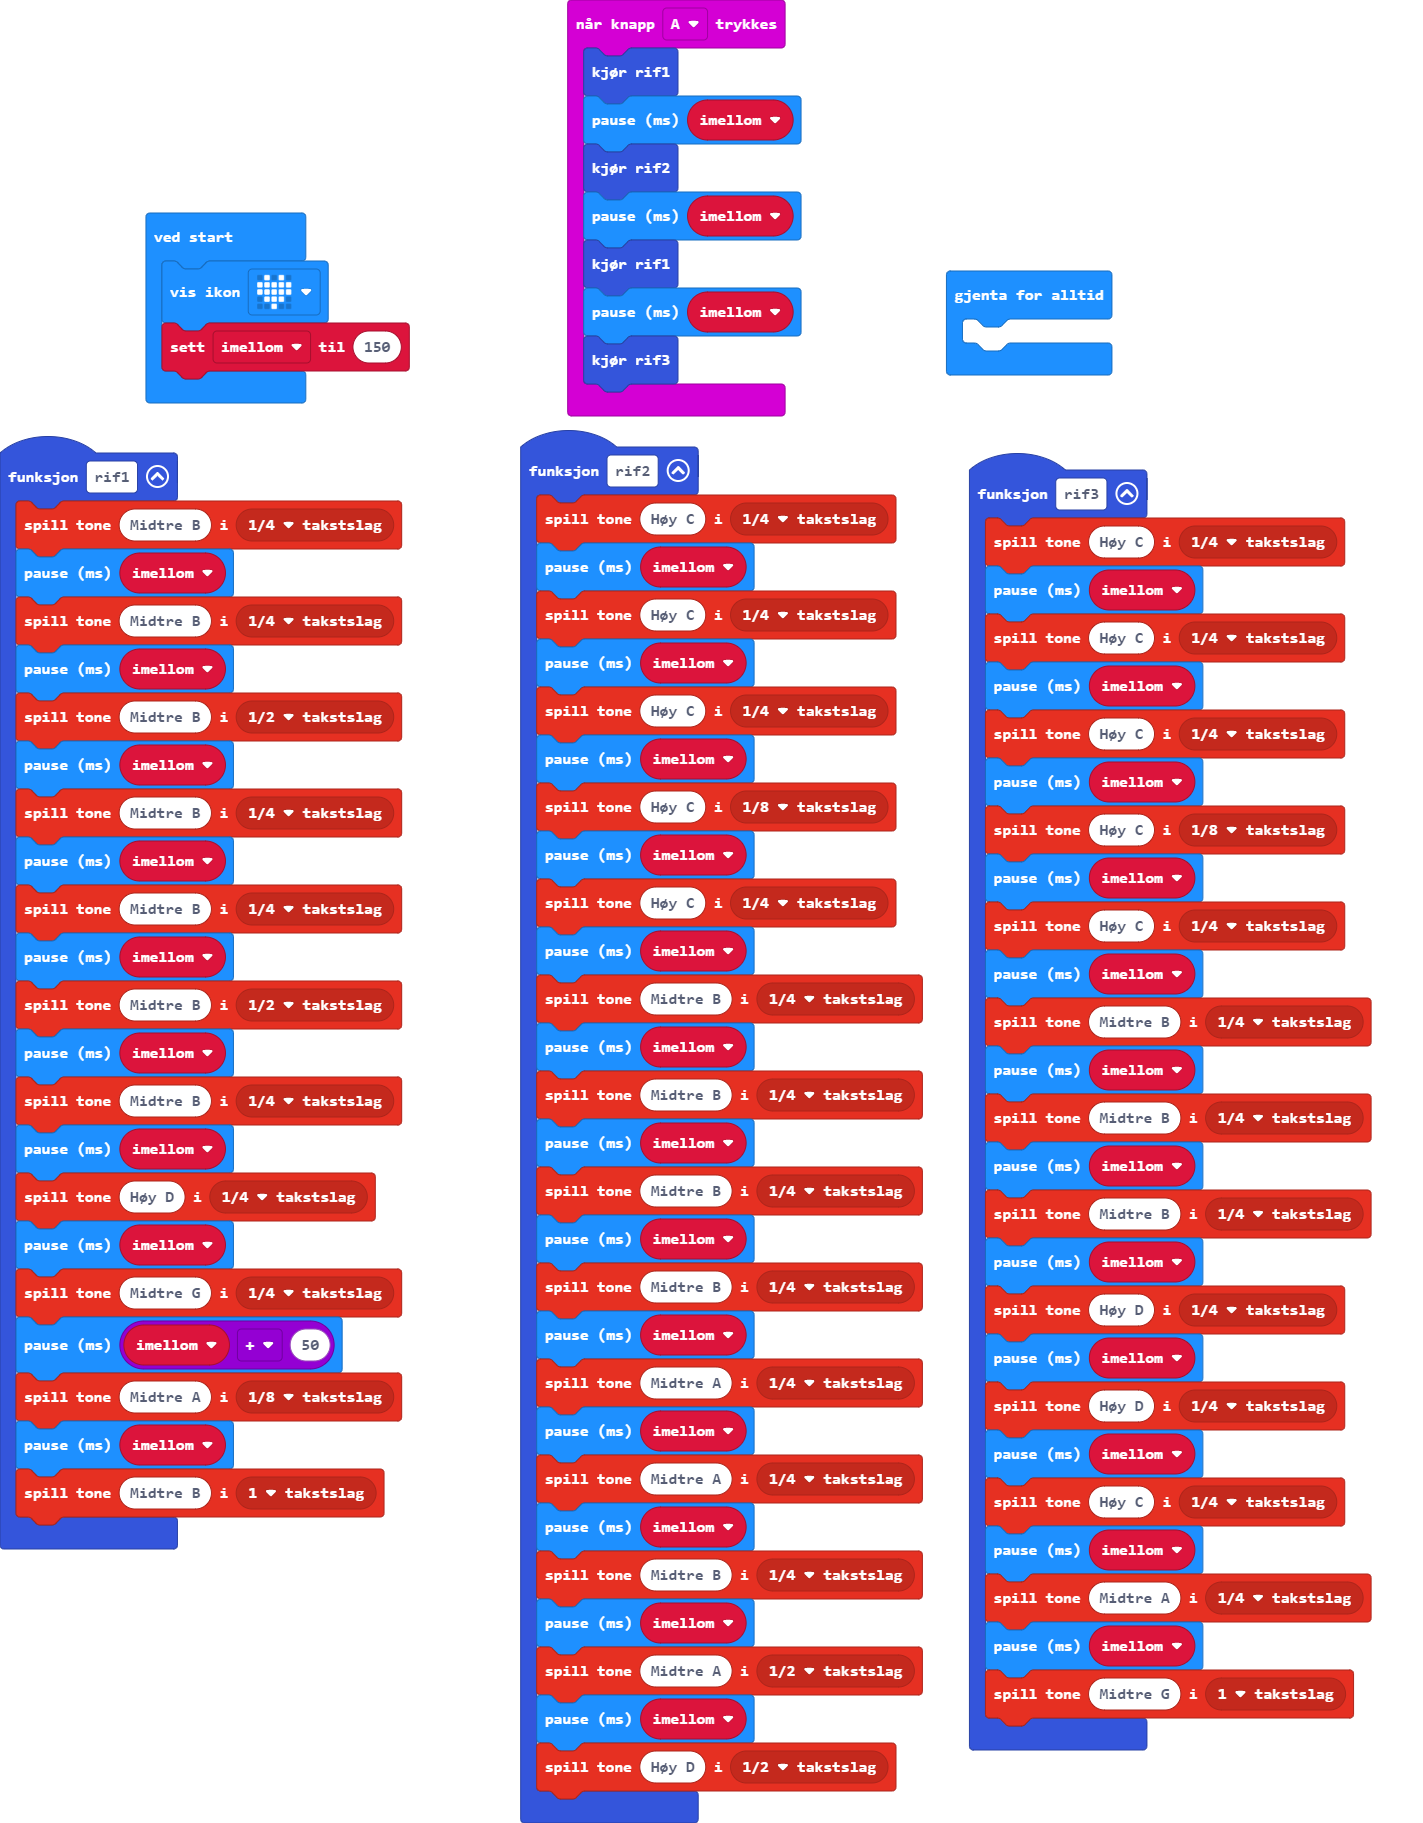
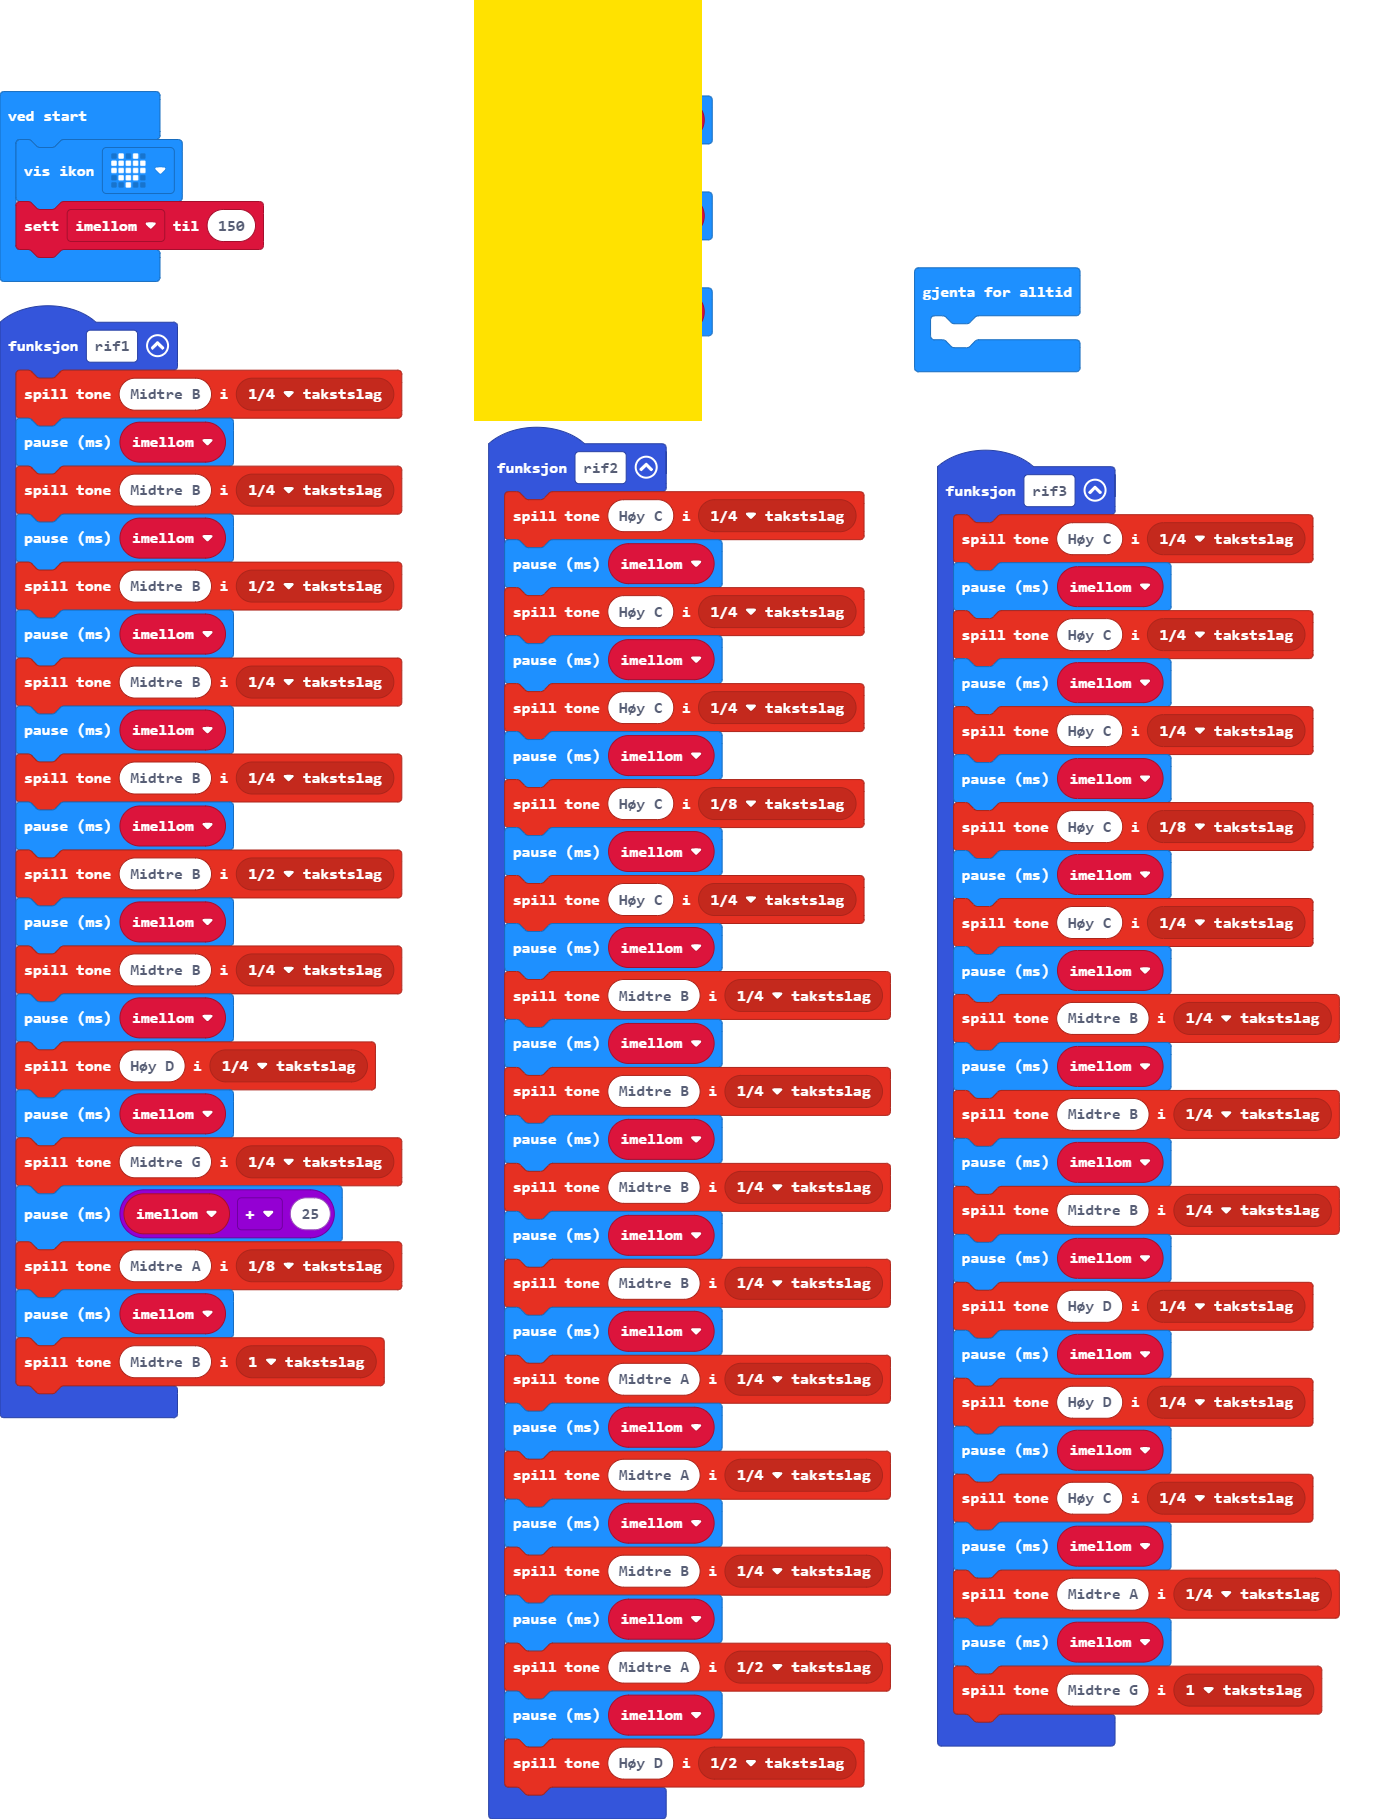
Update main.blocks, main.ts

diff --git a/main.ts b/main.ts
@@ -54,7 +54,7 @@ function rif1 () {
     music.playTone(587, music.beat(BeatFraction.Quarter))
     basic.pause(imellom)
     music.playTone(392, music.beat(BeatFraction.Quarter))
-    basic.pause(imellom + 50)
+    basic.pause(imellom + 25)
     music.playTone(440, music.beat(BeatFraction.Eighth))
     basic.pause(imellom)
     music.playTone(494, music.beat(BeatFraction.Whole))
